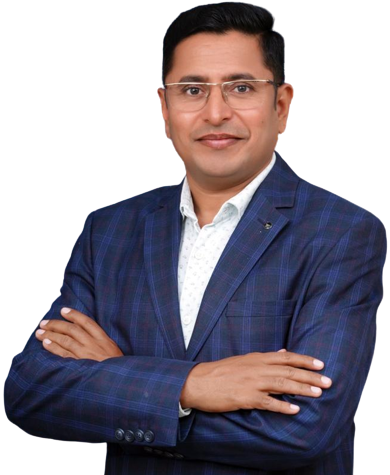
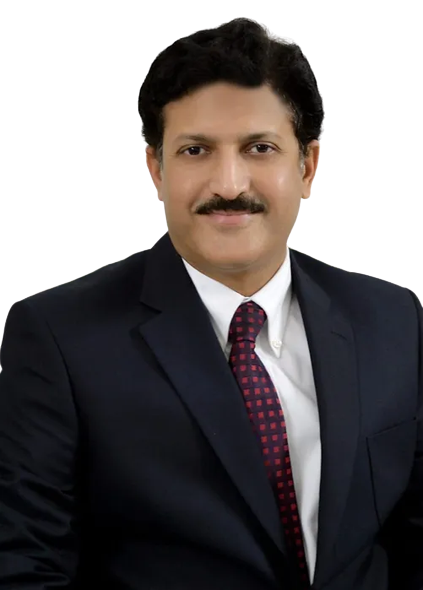
UPDATE

diff --git a/index.html b/index.html
@@ -1,8 +1,7 @@
 <!doctype html>
     <html lang="en-US">
 
-<!-- Mirrored from medic.mhrtheme.com/ by HTTrack Website Copier/3.x [XR&CO'2014], Sun, 09 Jul 2023 11:50:57 GMT -->
-<!-- Added by HTTrack --><meta http-equiv="content-type" content="text/html;charset=UTF-8" /><!-- /Added by HTTrack -->
+<meta http-equiv="content-type" content="text/html;charset=UTF-8" />
 <head>
 	<meta charset="UTF-8">
 	<meta name="viewport" content="width=device-width, initial-scale=1">
@@ -132,12 +131,12 @@ body{--wp--preset--color--black: #000000;--wp--preset--color--cyan-bluish-gray: 
 															<li>
 									<i class="bx bx-phone-call"></i>
 									<span>Call Us:</span>
-									<a href="tel:+918121174839">+91-8121174839</a>
+									<a href="tel:+918121174839">+91-9515295205</a>
 								</li>
 																						<li>
 									<i class="bx bx-envelope"></i>
 									<span>Email:</span>
-									<a href="mailto:support@utagechildcare.com">support@utagechildcare.com</a>
+									<a href="mailto:support@utagechildcare.com">support@drmamajidadil.com</a>
 								</li>
 													</ul>
 					</div>
@@ -165,20 +164,20 @@ body{--wp--preset--color--black: #000000;--wp--preset--color--cyan-bluish-gray: 
 							<ul id="menu-primary-menu" class="navbar-nav m-auto"><li id="menu-item-143" class="menu-item menu-item-type-post_type menu-item-object-page menu-item-home current-menu-item page_item page-item-82 current_page_item current-menu-ancestor current-menu-parent current_page_parent current_page_ancestor menu-item-has-children dropdown active menu-item-143 nav-item"><a title="Home" href="index.html" data-hover="dropdown" aria-haspopup="true" aria-expanded="false" class="dropdown-toggle nav-link" id="menu-item-dropdown-143">Home</a>
 
 </li>
-<li id="menu-item-160" class="menu-item menu-item-type-custom menu-item-object-custom menu-item-has-children dropdown menu-item-160 nav-item"><a title="About Us" href="https://www.utagechildcare.com/post/embracing-child-mental-health-welcome-to-utage-child-development-centre" data-hover="dropdown" aria-haspopup="true" aria-expanded="false" class="dropdown-toggle nav-link" id="menu-item-dropdown-160">About Us</a>
+<li id="menu-item-160" class="menu-item menu-item-type-custom menu-item-object-custom menu-item-has-children dropdown menu-item-160 nav-item"><a title="About Us" href="https://www.unicusdiagnostics.com/blog" data-hover="dropdown" aria-haspopup="true" aria-expanded="false" class="dropdown-toggle nav-link" id="menu-item-dropdown-160">About Us</a>
 
 </li>
-<li id="menu-item-924" class="menu-item menu-item-type-custom menu-item-object-custom menu-item-has-children dropdown menu-item-924 nav-item"><a title="Blog" href="https://www.utagechildcare.com/blog" data-hover="dropdown" aria-haspopup="true" aria-expanded="false" class="dropdown-toggle nav-link" id="menu-item-dropdown-924">Blog</a>
+<li id="menu-item-924" class="menu-item menu-item-type-custom menu-item-object-custom menu-item-has-children dropdown menu-item-924 nav-item"><a title="Blog" href="https://www.unicusdiagnostics.com/blog" data-hover="dropdown" aria-haspopup="true" aria-expanded="false" class="dropdown-toggle nav-link" id="menu-item-dropdown-924">Blog</a>
 </li>
 
-	<li id="menu-item-161" class="menu-item menu-item-type-custom menu-item-object-custom menu-item-has-children dropdown menu-item-161 nav-item"><a title="Contact" href="https://www.utagechildcare.com/" data-hover="dropdown" aria-haspopup="true" aria-expanded="false" class="dropdown-toggle nav-link" id="menu-item-dropdown-161">Contact</a>
+	<li id="menu-item-161" class="menu-item menu-item-type-custom menu-item-object-custom menu-item-has-children dropdown menu-item-161 nav-item"><a title="Contact" href="https://api.whatsapp.com/send?phone=919515295205&text=I%20would%20enquire%20about%20Dr%20Majid%20adil.%20I%20got%20this%20number%20from%20website." data-hover="dropdown" aria-haspopup="true" aria-expanded="false" class="dropdown-toggle nav-link" id="menu-item-dropdown-161">Contact</a>
 </li>
 </ul>
 															<!-- Start Other Option -->
 								<div class="others-option">
 									<div class="get-quote">
 		                                <div class="navbar_btn">
-		                                    <a href="https://www.utagechildcare.com/booking-calendar/child-neurology-consultation?referral=service_list_widget" class="medic-default-btn">
+		                                    <a href="#" class="medic-default-btn">
 		                                        Get An Appointment		                                    </a>
 		                                </div>
 									</div>
@@ -222,9 +221,9 @@ body{--wp--preset--color--black: #000000;--wp--preset--color--cyan-bluish-gray: 
                                     <h1 class="wow fadeInUp" data-wow-delay=".6s">
                                         Expert Urologist and Surgeon <br> Providing Quality Care                                    </h1>
                                     <p class="wow fadeInUp" data-wow-delay=".8s">
-                                        Dr. Prashant R. Utage specializes in providing exceptional neurological healthcare for children with special needs. With extensive expertise in the field, Dr. Utage offers comprehensive and personalized care to ensure the optimal development and well-being of every child under his care.                                    </p>
+                                        Dr. Majid Adil is a renowned urologist dedicated to providing exceptional healthcare services for patients dealing with urological conditions. With extensive experience and a passion for his field, Dr. Adil offers comprehensive and personalized care, ensuring optimal health and well-being for each individual under his expertise.                                    </p>
                                     
-                                                                            <div class="banner-btn wow fadeInUp" data-wow-delay=".5s">                                                                                                                              <a href="https://utagechildcare.com"   class="medic-default-btn active">Contact Us</a>
+                                                                            <div class="banner-btn wow fadeInUp" data-wow-delay=".5s">                                                                                                                              <a href="https://wa.link/ksnofn"   class="medic-default-btn active">Contact Us</a>
                                                                                     </div>
                                                                     </div>
                             </div>
@@ -263,26 +262,26 @@ body{--wp--preset--color--black: #000000;--wp--preset--color--cyan-bluish-gray: 
                             <div data-aos="fade-up" data-aos-duration="1200" class="col-lg-6">
                                 <div class="about-content mb-0">
                                     <span class="top-title">About Us</span>
-                                    <h2>Tackle The Challenge Of Delivering Health Care</h2>
-                                    <p>Utage Child Care Centre provides a nurturing environment where children thrive. With a dedicated team of experienced caregivers, we prioritize the well-being and holistic development of each child. Discover a place where little ones' curiosity is nurtured and their individuality celebrated at Utage Child Care Centre.</p>
+                                    <h2>Comprehensive urological consultations and evaluations</h2>
+                                    <p>Whether you require routine check-ups, advanced diagnostics, or complex surgical procedures, Dr. Majid Adil is your trusted urological specialist. Take the first step towards optimal urological health by scheduling a consultation with Dr. Majid Adil today. Experience his expertise, compassion, and dedication in providing personalized care that makes a difference in your life.</p>
                                     
                                     <ul>
                                                                                     <li>
                                                 <i class="bx bx-check"></i>
-                                                Health and Safety Measures                                            </li>
+                                                Prostate health evaluation and treatment options                                            </li>
                                                                                     <li>
                                                 <i class="bx bx-check"></i>
-                                                Qualified and Caring Staff                                            </li>
+                                                Diagnosis and treatment of urinary tract infections                                            </li>
                                                                                     <li>
                                                 <i class="bx bx-check"></i>
-                                                Developmentally Appropriate Activities                                           </li>
+                                                Management of kidney stones, including medical and surgical interventions                                           </li>
                                                                                     <li>
                                                 <i class="bx bx-check"></i>
-                                                Communication and Collaboration                                           </li>
+                                                Prostate health evaluation and treatment options                                           </li>
                                                                             </ul>
                                    
                                     <!-- Button Part Start --> 
-                                                                            <a href="https://utagechildcare.com"   class="medic-default-btn">More About Us</a>
+                                                                            <a href="https://www.unicusdiagnostics.com/blog"   class="medic-default-btn">More About Us</a>
                                                                         <!-- Button Part End -->
 
                                 </div>
@@ -312,7 +311,7 @@ body{--wp--preset--color--black: #000000;--wp--preset--color--cyan-bluish-gray: 
                                 <div class="single-counter">
                                                                             <i class="bx bx-user-circle"></i>
                                                                         <h2>
-                                        <span class="odometer" data-count="5400">00</span> 
+                                        <span class="odometer" data-count="6100">00</span> 
                                         <span class="target">+</span>
                                     </h2>
                                     <p>Offline & Online Appointments</p>
@@ -332,7 +331,7 @@ body{--wp--preset--color--black: #000000;--wp--preset--color--cyan-bluish-gray: 
                                 <div class="single-counter">
                                                                             <i class="bx bx-trophy"></i>
                                                                         <h2>
-                                        <span class="odometer" data-count="3500">00</span> 
+                                        <span class="odometer" data-count="300">00</span> 
                                         <span class="target">+</span>
                                     </h2>
                                     <p>Global Presence</p>
@@ -342,7 +341,7 @@ body{--wp--preset--color--black: #000000;--wp--preset--color--cyan-bluish-gray: 
                                 <div class="single-counter">
                                                                             <i class="bx bx-certification"></i>
                                                                         <h2>
-                                        <span class="odometer" data-count="54">00</span> 
+                                        <span class="odometer" data-count="24">00</span> 
                                         <span class="target">+</span>
                                     </h2>
                                     <p>Awards.</p>
@@ -374,11 +373,10 @@ body{--wp--preset--color--black: #000000;--wp--preset--color--cyan-bluish-gray: 
             <div class="container"> 
                 <div data-aos="fade-up" data-aos-duration="1200" class="section-title">
                 	<span class="top-title">Our Doctor&#039;s</span>
-                    <h2>Our Expert Doctor&#039;s</h2>
-                    <p>Utage Child Care Centre prioritizes the health and safety of its children. I notice that proper hygiene practices, cleanliness, and regular sanitization protocols are maintained throughout the facility.
+                    <h2>Our Expert Doctor | DR. MAJID ADIL</h2>
+                    <p>At Dr. Majid Adil Urology Clinic, we prioritize the health and safety of our patients above all else. We understand the importance of maintaining proper hygiene practices, ensuring cleanliness, and implementing regular sanitization protocols throughout our facility. Our commitment to maintaining a safe and hygienic environment sets the foundation for providing exceptional urological care.
                     <br>
-                    The dedicated staff at Utage Child Care Centre demonstrates a genuine commitment to the well-being of the children. They provide attentive care, ensuring the children's medical needs are met, and promptly address any health concerns that may arise.
-                    
+                    Our dedicated staff at Dr. Majid Adil Urology Clinic demonstrates a genuine commitment to the well-being of our patients. With a passion for their profession, they go above and beyond to provide attentive care, ensuring that each patient's medical needs are met with the utmost attention and compassion. We understand that visiting a urologist may sometimes involve sensitive health concerns, and our staff is trained to handle such matters with sensitivity and discretion.                    
                     </p>
                 </div>
                                     
@@ -405,8 +403,8 @@ body{--wp--preset--color--black: #000000;--wp--preset--color--cyan-bluish-gray: 
             <div class="container"> 
                 <div data-aos="fade-up" data-aos-duration="1200" class="section-title">
                     
-                    <h2>Our Approaches  <span>UTAGE CHILD CARE</span></h2>
-                    <p>Utage Child Care Centre provides a nurturing environment where children thrive. With a dedicated team of experienced caregivers, we prioritize the well-being and holistic development of each child. Discover a place where little ones' curiosity is nurtured and their individuality celebrated at Utage Child Care Centre.</p>
+                    <h2>Our Approaches  <span> DR MAJID ADIL'S UROCARE</span></h2>
+                    <p>Dr. Majid Adil himself is deeply committed to the well-being of his patients. With his extensive expertise in urology, he provides comprehensive and personalized care, ensuring that each patient receives the highest standard of treatment. Dr. Adil's approach is rooted in building strong doctor-patient relationships based on trust, open communication, and mutual respect. He takes the time to listen to his patients, address their concerns, and provide clear explanations about their urological conditions and treatment options.</p>
                 </div>
                                     <div class="row justify-content-center">
                                                                                 <div data-aos="fade-up" data-aos-duration="1600" class="col-lg-4 col-md-6 col-sm-12">
